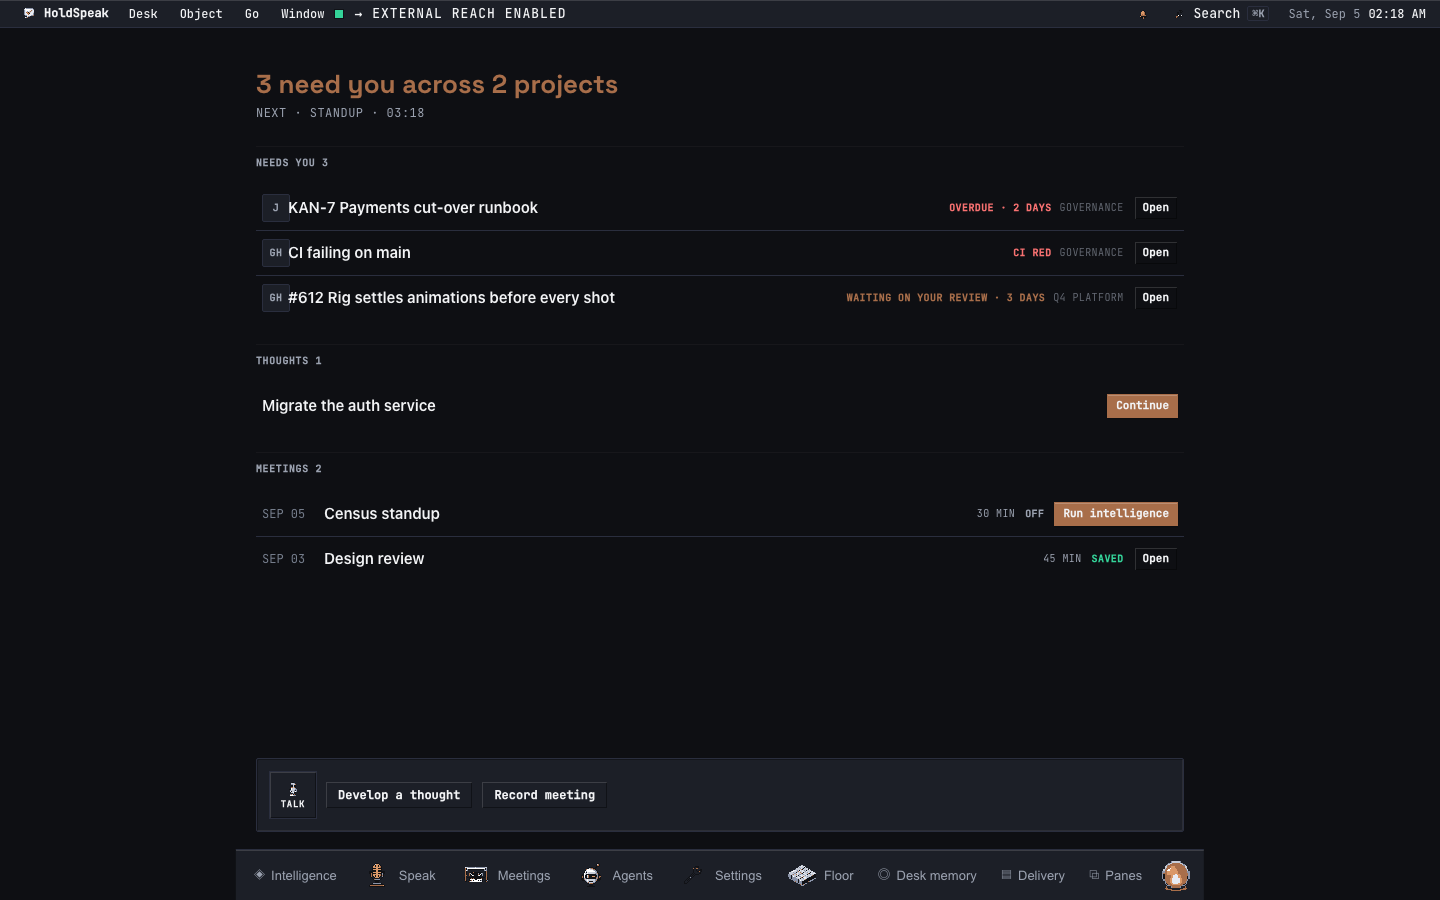
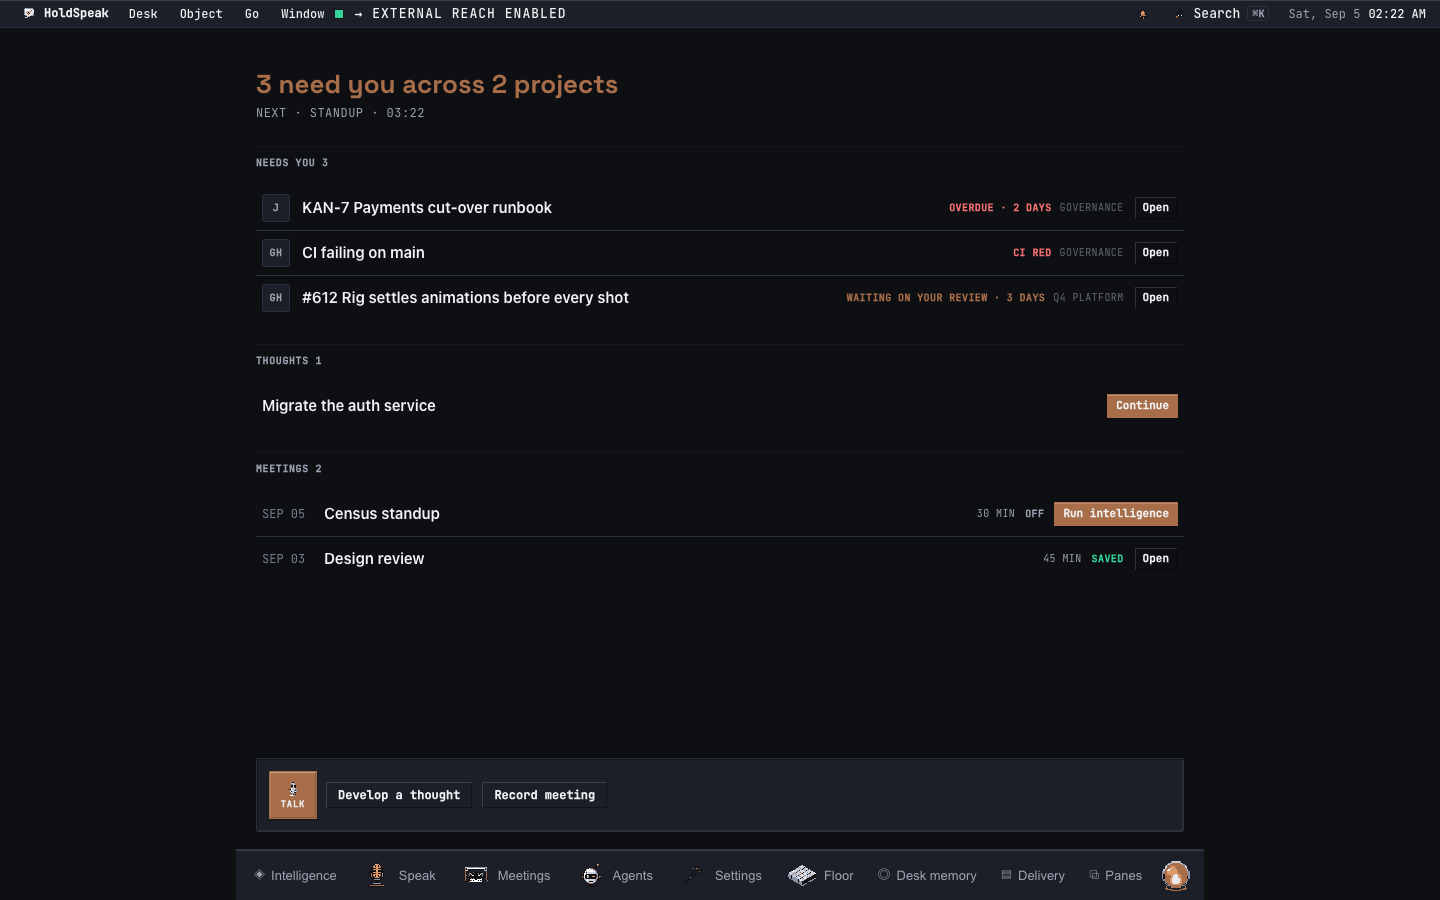
feat(face): HS-170-04 — the arrival's Talk key is the accent primary; the emblem gap
Claude-Session: https://claude.ai/code/session_016siGSBgZph9EhEdGMoyWcu
PMO-Story: HS-170-04
PMO-Contract-Digest: sha256:ba7c07dc879c52611c51f9cfff69e082367a747f9ca099497154d0be53fc0d1d

Changed region(s): [[0.1875, 0.2178, 0.4375, 0.3422], [0.1875, 0.84, 0.2188, 0.9333]]

diff --git a/web/src/desk/chair/chair.css b/web/src/desk/chair/chair.css
@@ -85,6 +85,12 @@
 
 /* ── Needs-You rows ────────────────────────────────────────────────── */
 
+/* 12px gap between the source emblem box and the title (the board). */
+.chair .surface-ledger[data-cols="room"] .surface-ledger-lead {
+  width: auto;
+  margin-right: 2px;
+}
+
 /* The meta container keeps WHY + project tokens as one flex unit so
    they sit together on line 2 at 393 with Open at the trailing edge. */
 .arrival-needs-you-meta {
@@ -197,6 +203,23 @@
 .arrival-capture-talk {
   display: flex;
   align-items: center;
+}
+/* Talk is the PRIMARY verb — accent-filled at rest (the board).
+   Same treatment as Speak's transport key. */
+.arrival-capture-bar .desk-mic.gadget-transport-key {
+  background: var(--accent);
+  border-color: var(--accent);
+  color: var(--text-on-accent);
+  box-shadow: inset 0 1px 0 rgba(255, 255, 255, 0.22),
+              0 1px 2px rgba(0, 0, 0, 0.3),
+              inset 1px 1px 0 rgba(255, 255, 255, 0.14),
+              inset -1px -1px 0 rgba(0, 0, 0, 0.20);
+}
+.arrival-capture-bar .desk-mic.gadget-transport-key .gadget-transport-glyph svg {
+  stroke: var(--text-on-accent);
+}
+.arrival-capture-bar .desk-mic.gadget-transport-key:hover:not(:disabled) {
+  background: color-mix(in srgb, var(--accent) 85%, white);
 }
 
 /* ── FIX 4: 393 narrow needs-you rows ─────────────────────────────── */
